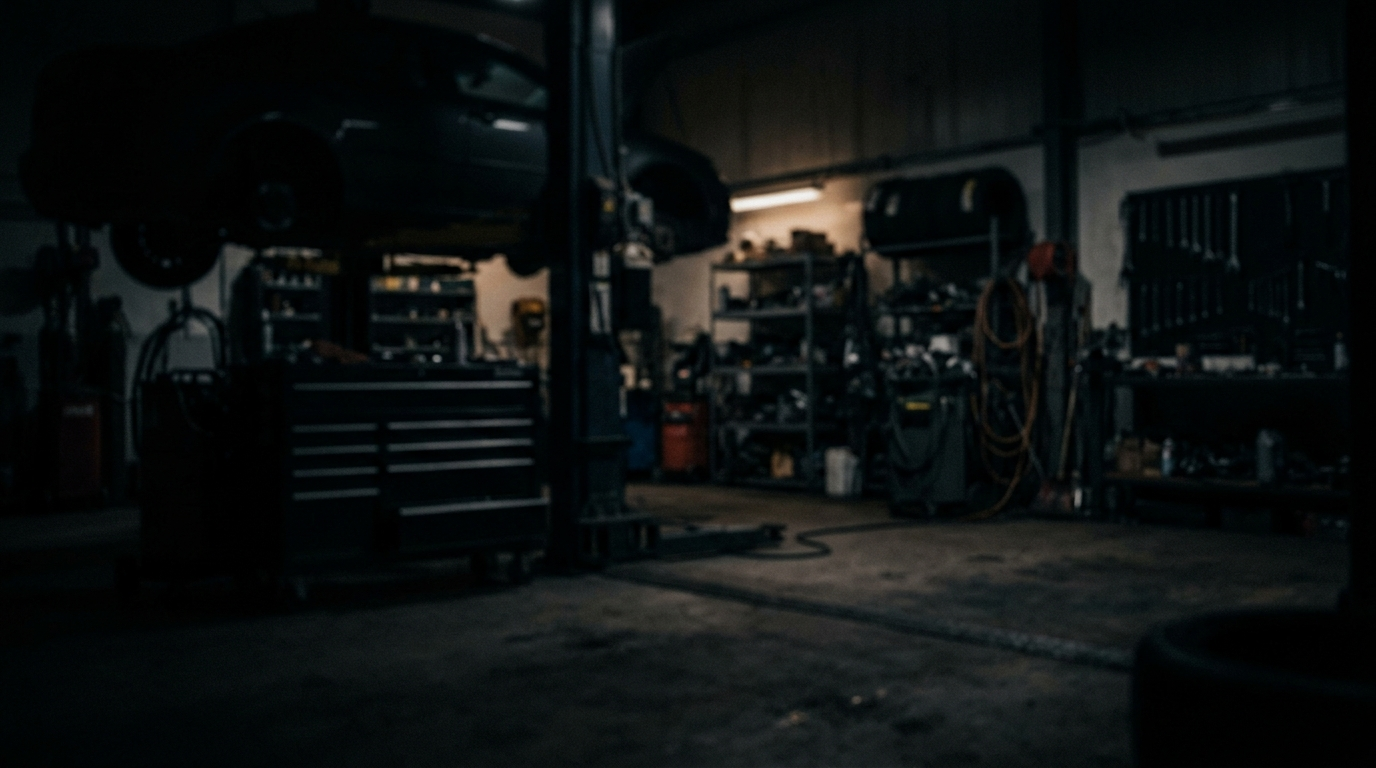
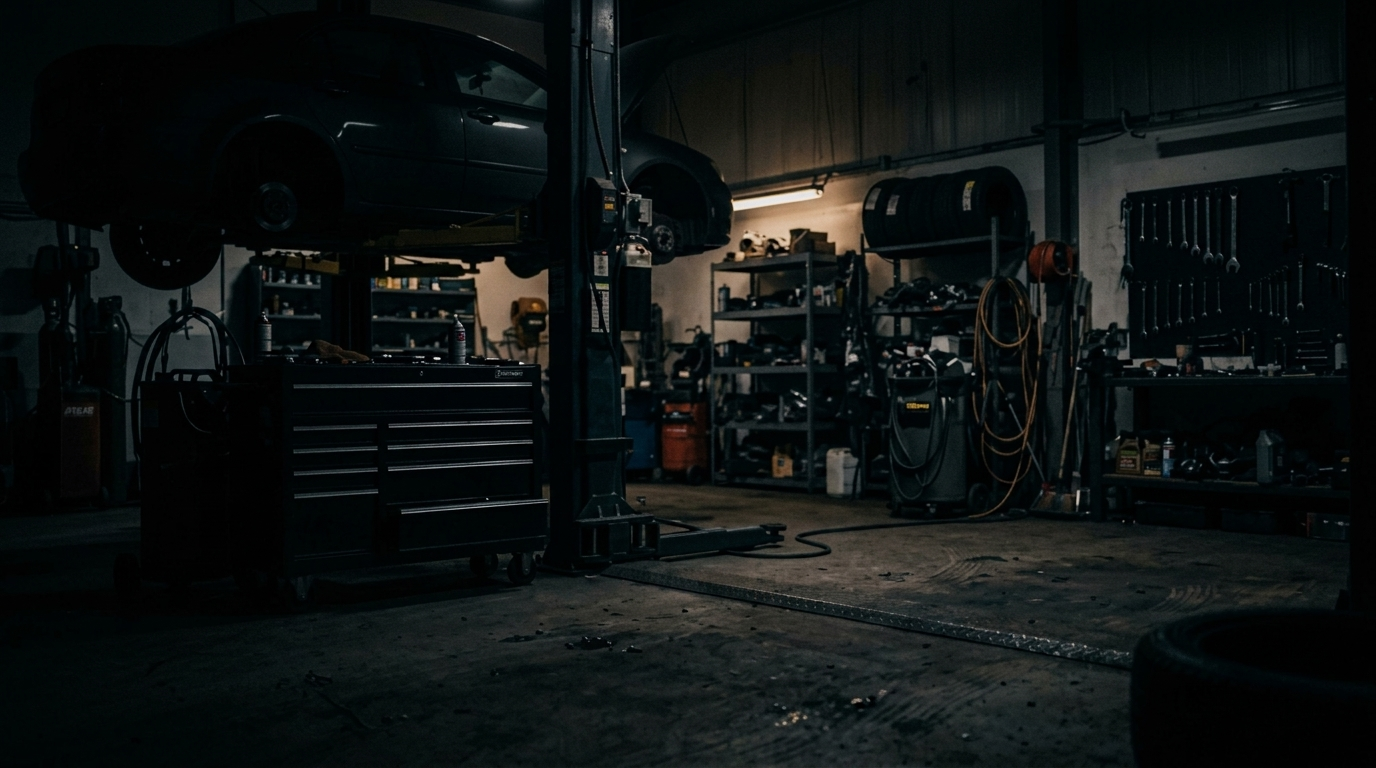
feat: update background gradients for sections and enhance light theme styling

diff --git a/static/css/style.css b/static/css/style.css
@@ -703,7 +703,7 @@ a:hover {
 .section-categories {
   background-color: var(--bg-primary);
   background-image: 
-    linear-gradient(to bottom, rgba(10, 14, 39, 0.60), rgba(10, 14, 39, 0.60)),
+    linear-gradient(to bottom, rgba(10, 14, 39, 0.75), rgba(10, 14, 39, 0.75)),
     url('/static/images/dark-garage-bg.jpg');
   background-size: cover;
   background-position: center center;
@@ -713,7 +713,7 @@ a:hover {
 .section-featured {
   background-color: var(--bg-primary);
   background-image: 
-    linear-gradient(to bottom, rgba(10, 14, 39, 0.60), rgba(10, 14, 39, 0.60)),
+    linear-gradient(to bottom, rgba(10, 14, 39, 0.75), rgba(10, 14, 39, 0.75)),
     url('/static/images/dark-garage-bg.jpg');
   background-size: cover;
   background-position: center center;
@@ -724,7 +724,7 @@ a:hover {
 [data-theme='light'] .section-categories,
 [data-theme='light'] .section-featured {
   background-image: 
-    linear-gradient(to bottom, rgba(255, 255, 255, 0.60), rgba(255, 255, 255, 0.60)),
+    linear-gradient(to bottom, rgba(255, 255, 255, 0.75), rgba(255, 255, 255, 0.75)),
     url('/static/images/dark-garage-bg.jpg');
   border-top-color: rgba(0, 0, 0, 0.05);
 }
